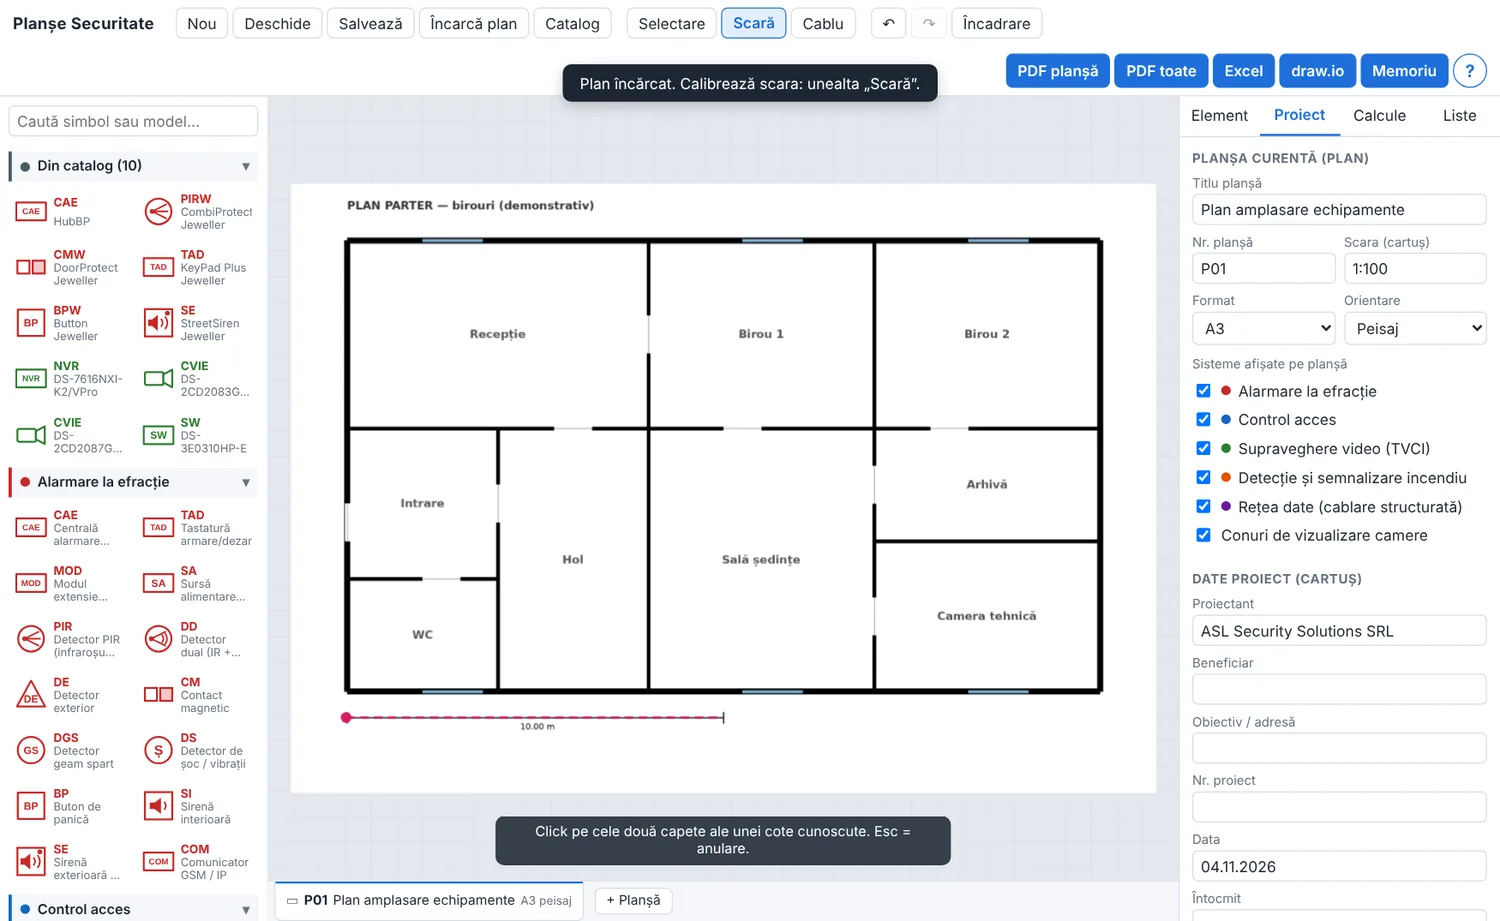
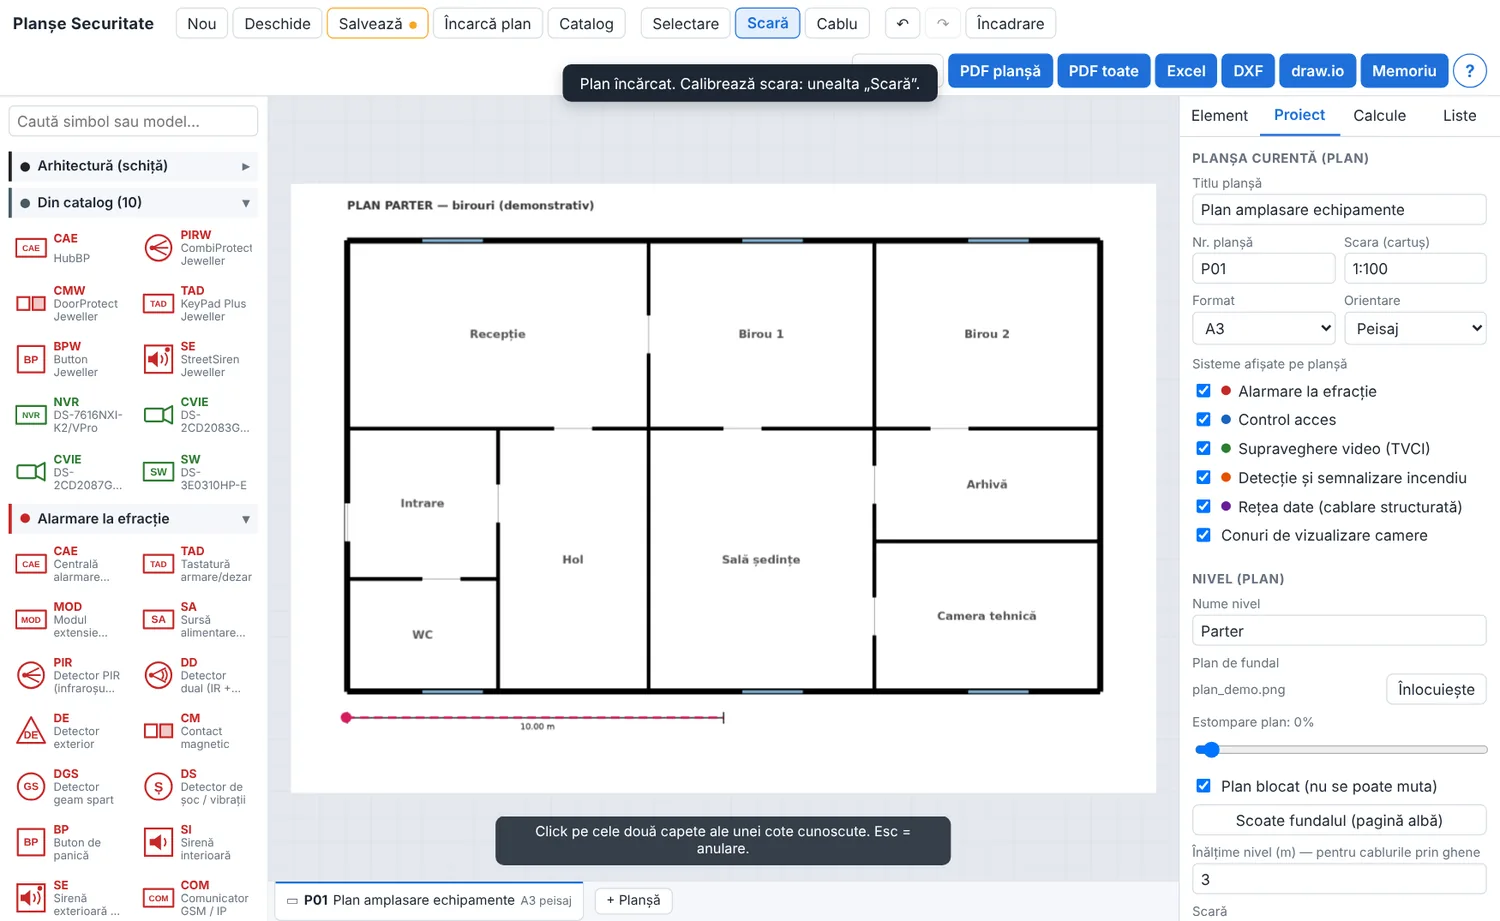
Ghid: capturi noi și actualizate pentru funcțiile recente
- Capturile 01–10 și 12 refăcute pe planul demonstrativ, cu bara de sus actuală (Verificare, DXF)
- 07: schema bloc cu selecție multiplă și panoul de aliniere / distribuire
- 11: schiță pe pagină albă, cu zona planșei (A3 peisaj, 1:100)
- Noi: 13 verificarea înainte de predare, 14 importul DXF (straturi, unitate, previzualizare), 15 reglajele planului de fundal (estompare, deblocare, rotire), 16 un plan exportat în DXF, deschis cu un cititor CAD
- Secțiunile ghidului au acum câte o captură; CLAUDE.md actualizat

Claude-Session: https://claude.ai/code/session_01UNavS2C7a9xFY6b7ahtYDn

diff --git a/src/HelpDialog.tsx b/src/HelpDialog.tsx
@@ -217,6 +217,7 @@ const SECTIONS: Section[] = [
   {
     id: 'fundal',
     title: 'Planul de fundal: estompare, aliniere, blocare',
+    img: 'help/15-fundal.webp',
     steps: [
       <>
         În tab-ul <B>Proiect</B>, la <B>Nivel</B>: <B>Estompare plan</B> (0–90%) face planul mai șters, ca o copie decolorată, iar simbolurile ies
@@ -236,6 +237,7 @@ const SECTIONS: Section[] = [
     id: 'import-dxf',
     title: 'Plan DXF de la arhitect',
     intro: 'Planul primit în format CAD se încarcă direct, la scara reală.',
+    img: 'help/14-import-dxf.webp',
     steps: [
       <>
         <B>Încarcă plan</B> → alege fișierul <B>.dxf</B>. Un <B>.dwg</B> nu se poate citi în browser: în AutoCAD (sau alt program CAD) folosește{' '}
@@ -259,6 +261,7 @@ const SECTIONS: Section[] = [
     id: 'verificare',
     title: 'Verificare înainte de predare',
     intro: 'O listă cu tot ce lipsește sau nu se potrivește, înainte să predai documentația.',
+    img: 'help/13-verificare.webp',
     steps: [
       <>
         Apasă <B>Verificare</B> (bara de sus). Bulina roșie de pe buton arată câte <B>erori</B> are proiectul acum.
@@ -280,6 +283,7 @@ const SECTIONS: Section[] = [
   {
     id: 'dxf',
     title: 'Export DXF pentru AutoCAD',
+    img: 'help/16-export-dxf.webp',
     steps: [
       <>
         Pe o planșă de plan apeși <B>DXF</B>: se descarcă desenul nivelului ca fișier <B>.dxf</B> (format R12), care se deschide în AutoCAD,

diff --git a/CLAUDE.md b/CLAUDE.md
@@ -97,7 +97,7 @@ Principii:
 ## Ghidul din aplicație
 
 - Când se schimbă interfața sau se adaugă o funcție, se actualizează și secțiunea corespunzătoare din `HelpDialog.tsx`.
-- Capturile din `public/help/` se regenerează cu Playwright pe `vite preview`, pe un plan demonstrativ (birouri 20 × 12 m, 100 px/m, cotă de 10 m), cu viewport 1400×860 și deviceScaleFactor 1.25, apoi se convertesc în WebP (calitate ~82, lățime max. 1500 px). Scripturile sunt temporare, nu se pun în repo.
+- Capturile din `public/help/` (01–16) se regenerează cu Playwright pe `vite preview`, pe un plan demonstrativ (birouri 20 × 12 m, 100 px/m, cotă de 10 m), cu viewport 1400×860 și deviceScaleFactor 1.25, apoi se convertesc în WebP (calitate ~82, lățime max. 1500 px). `16-export-dxf` e randarea `ezdxf` a unui DXF exportat. Scripturile sunt temporare, nu se pun în repo.
 
 ## Git
 
@@ -106,4 +106,4 @@ Principii:
 
 ## Direcții următoare (discutate cu utilizatorul)
 
-- Capturi noi în ghid pentru funcțiile recente (DXF, zona planșei, fundal, pagini PDF, verificare, editor de schemă).
+- (nimic în așteptare — se completează la cererea utilizatorului)
